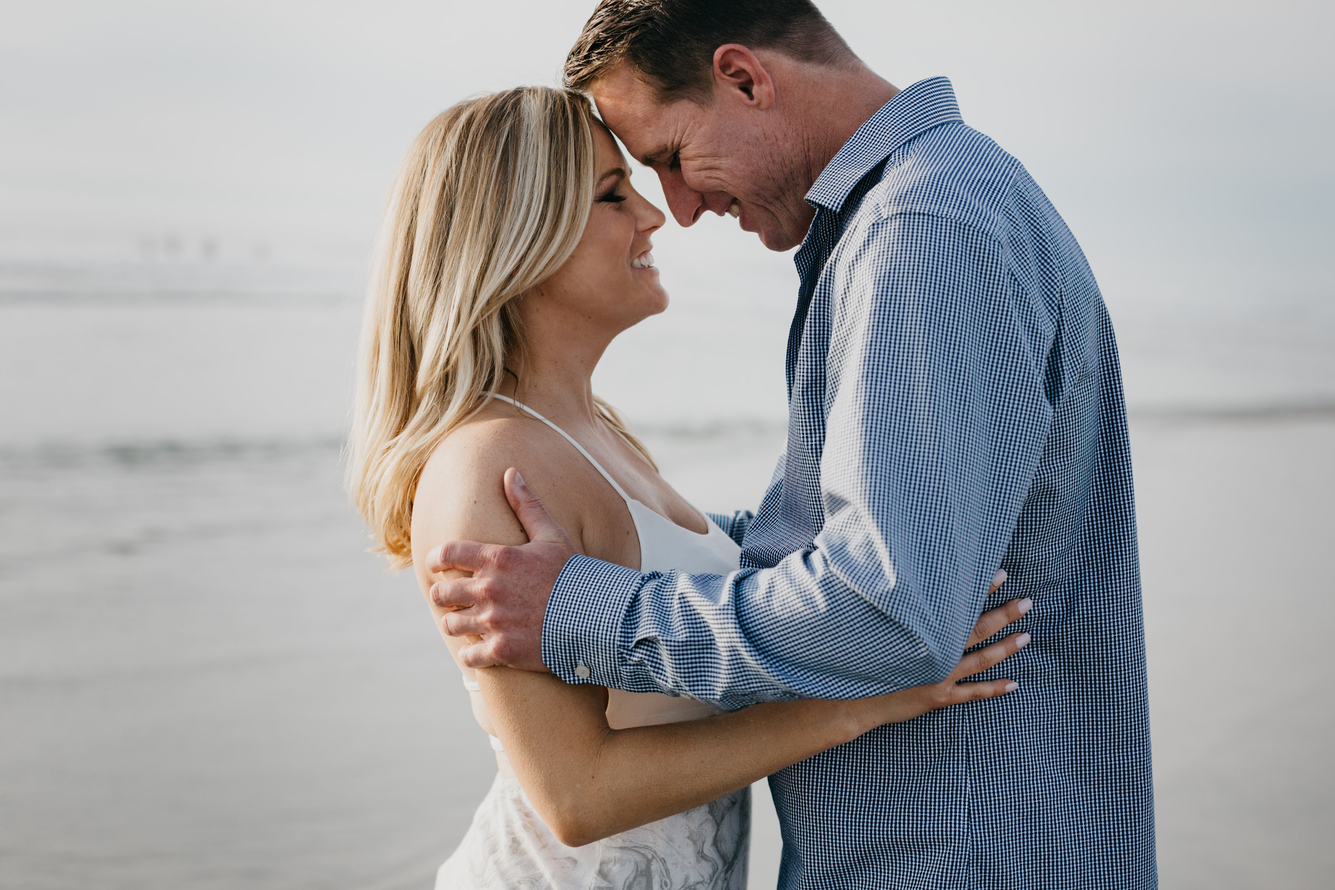
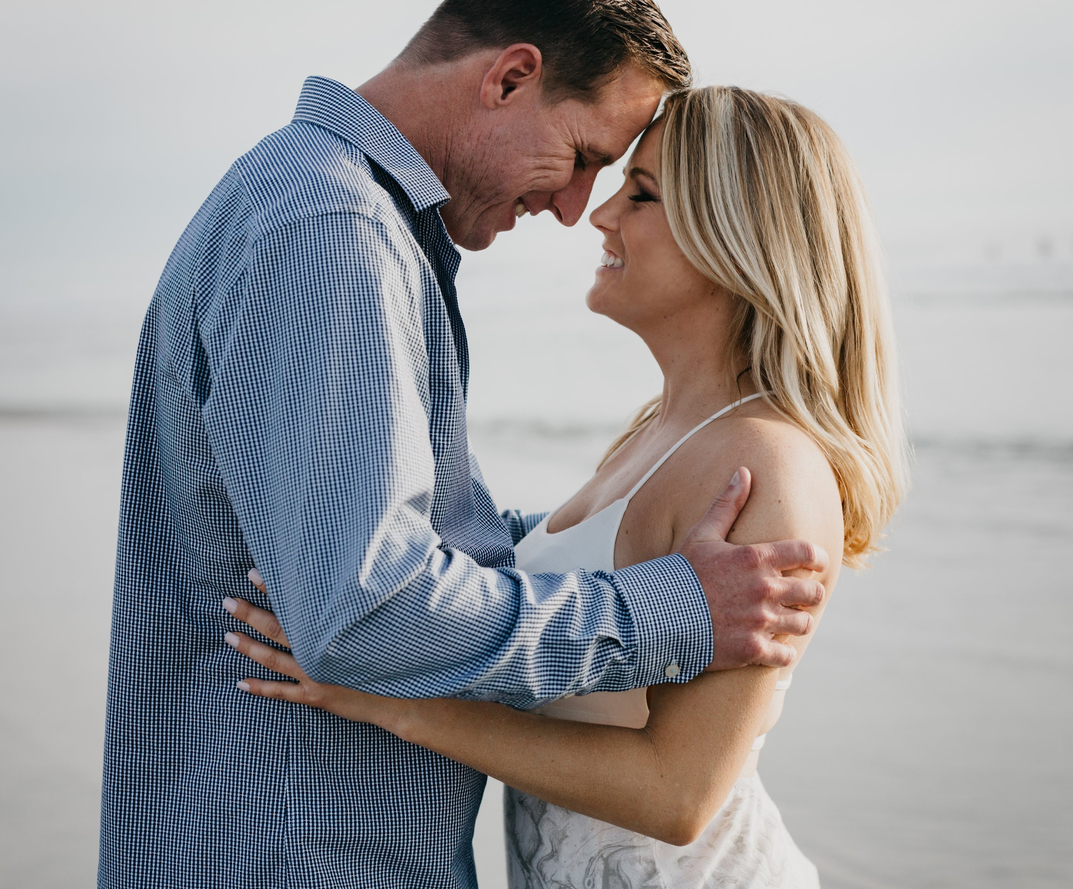
flipped so names line up

diff --git a/css/wedding.css b/css/wedding.css
@@ -117,7 +117,7 @@ a.nav-link {
     text-shadow: 2px 4px 3px rgba(0,0,0,0.3);
 }
 .home {
-    padding-top:271px; 
+    padding-top:304px; 
     background-image: linear-gradient( rgba(0, 0, 0, 0.3), rgba(0, 0, 0, 0.3) ), url(../img/home.jpg);
 }
 .when {
